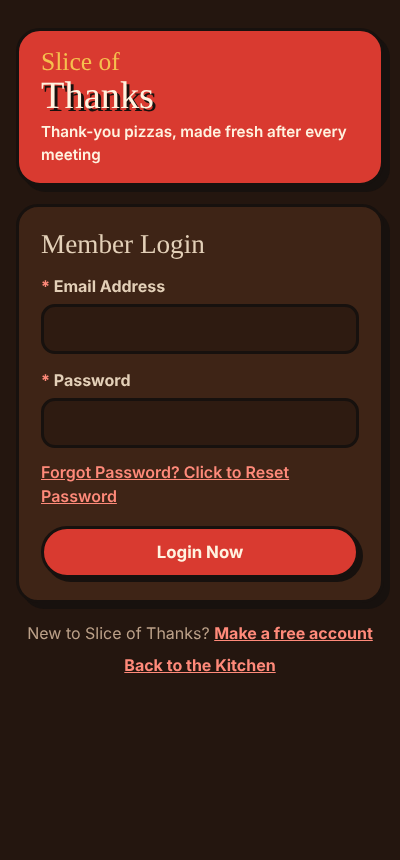
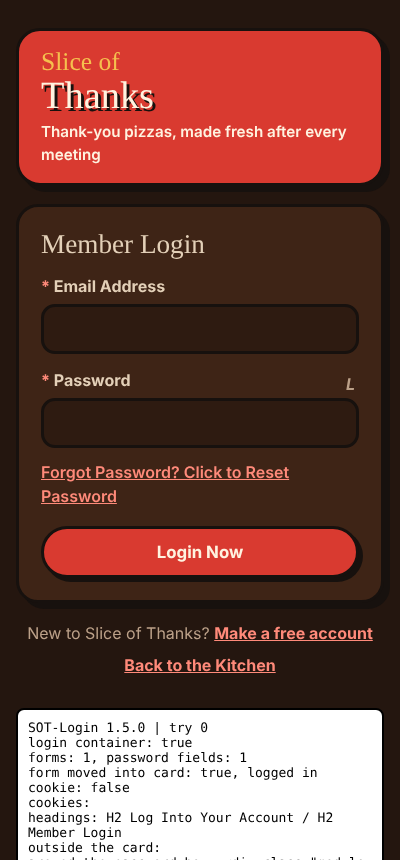
SOT-Login 1.5.0: style BD field notes, debug shows markup around the password box
Claude-Session: https://claude.ai/code/session_016muM8CBz9QbfcueiGFu2fK

Changed region(s): [[0.03, 0.8163, 0.96, 1.0], [0.87, 0.4233, 0.9, 0.4535]]

diff --git a/widgets/SOT-Login.html b/widgets/SOT-Login.html
@@ -1,4 +1,4 @@
-<!-- SOT-Login: Slice of Thanks look for the BD /login page. Version 1.4.0
+<!-- SOT-Login: Slice of Thanks look for the BD /login page. Version 1.5.0
      Place it in the /login page content ABOVE the BD Member Login Page widget.
      BD still does the login, reCAPTCHA, password reset and redirect. This widget only styles it,
      moves BD's form into the Slice of Thanks card, and adds the links around it. -->
@@ -38,6 +38,8 @@ body{font-family:"Work Sans",system-ui,-apple-system,"Segoe UI",sans-serif;font-
 .sot-login-card p{margin:0 0 4px;color:var(--sot-muted)}
 .sot-login-card .alert{border:2px solid var(--sot-edge);border-radius:14px;padding:10px 14px;margin:0 0 12px;background:var(--sot-line);color:var(--sot-ink)}
 .sot-login-card .g-recaptcha{margin-top:16px}
+/* BD's field notes, such as Required Field */
+.sot-login-card .help-block,.sot-login-card .error,.sot-login-card .text-muted{display:block;font-size:.88rem;margin-top:6px;color:var(--sot-tomato-text)}
 /* BD's login CSS sets the container colors with !important on a strong selector; the id here outranks it */
 #sot-login-slot .module,#sot-login-slot .row,#sot-login-slot .fpad-lg,#sot-login-slot .member-login-container,#sot-login-slot form,#sot-login-slot .form-group,#sot-login-slot fieldset{
   width:auto!important;max-width:none!important;margin-left:0!important;margin-right:0!important;padding:0!important;
@@ -59,7 +61,7 @@ body{font-family:"Work Sans",system-ui,-apple-system,"Segoe UI",sans-serif;font-
 </div>
 <script>
 (function () {
-  var VERSION = '1.4.0';
+  var VERSION = '1.5.0';
   var NL = String.fromCharCode(10);
   var tries = 0;
   function cookieNames() {
@@ -121,6 +123,19 @@ body{font-family:"Work Sans",system-ui,-apple-system,"Segoe UI",sans-serif;font-
     }
     return out;
   }
+  /* The markup around the password box, with every value blanked, to see what draws the bar */
+  function around(slot) {
+    var pw = slot.querySelector('input[type=password]');
+    if (!pw) { return '-'; }
+    var host = pw.parentElement && pw.parentElement.parentElement ? pw.parentElement.parentElement : pw.parentElement;
+    var copy = host.cloneNode(true);
+    var all = copy.querySelectorAll('*');
+    for (var i = 0; i < all.length; i++) { all[i].removeAttribute('value'); all[i].removeAttribute('style'); }
+    var sizes = [];
+    var kids = host.querySelectorAll('*');
+    for (var j = 0; j < kids.length && j < 12; j++) { sizes.push(label(kids[j]) + ' ' + kids[j].offsetWidth + 'x' + kids[j].offsetHeight); }
+    return copy.outerHTML.slice(0, 900) + NL + 'sizes: ' + sizes.join(' / ');
+  }
   /* Open /login?sotdebug=1 to see what the widget found (names only, no values) */
   function debug(shell, found) {
     if (location.search.indexOf('sotdebug=1') < 0) { return; }
@@ -137,7 +152,7 @@ body{font-family:"Work Sans",system-ui,-apple-system,"Segoe UI",sans-serif;font-
       NL + 'cookies: ' + cookieNames().join(', ') +
       NL + 'headings: ' + heads.join(' / ') +
       NL + 'outside the card: ' + outside(shell).join(' / ') +
-      NL + 'fields in the card: ' + fields(document.getElementById('sot-login-slot')).join(' / ') +
+      NL + 'around the password box: ' + around(document.getElementById('sot-login-slot')) +
       NL + 'page: ' + location.pathname;
     shell.appendChild(pre);
   }
